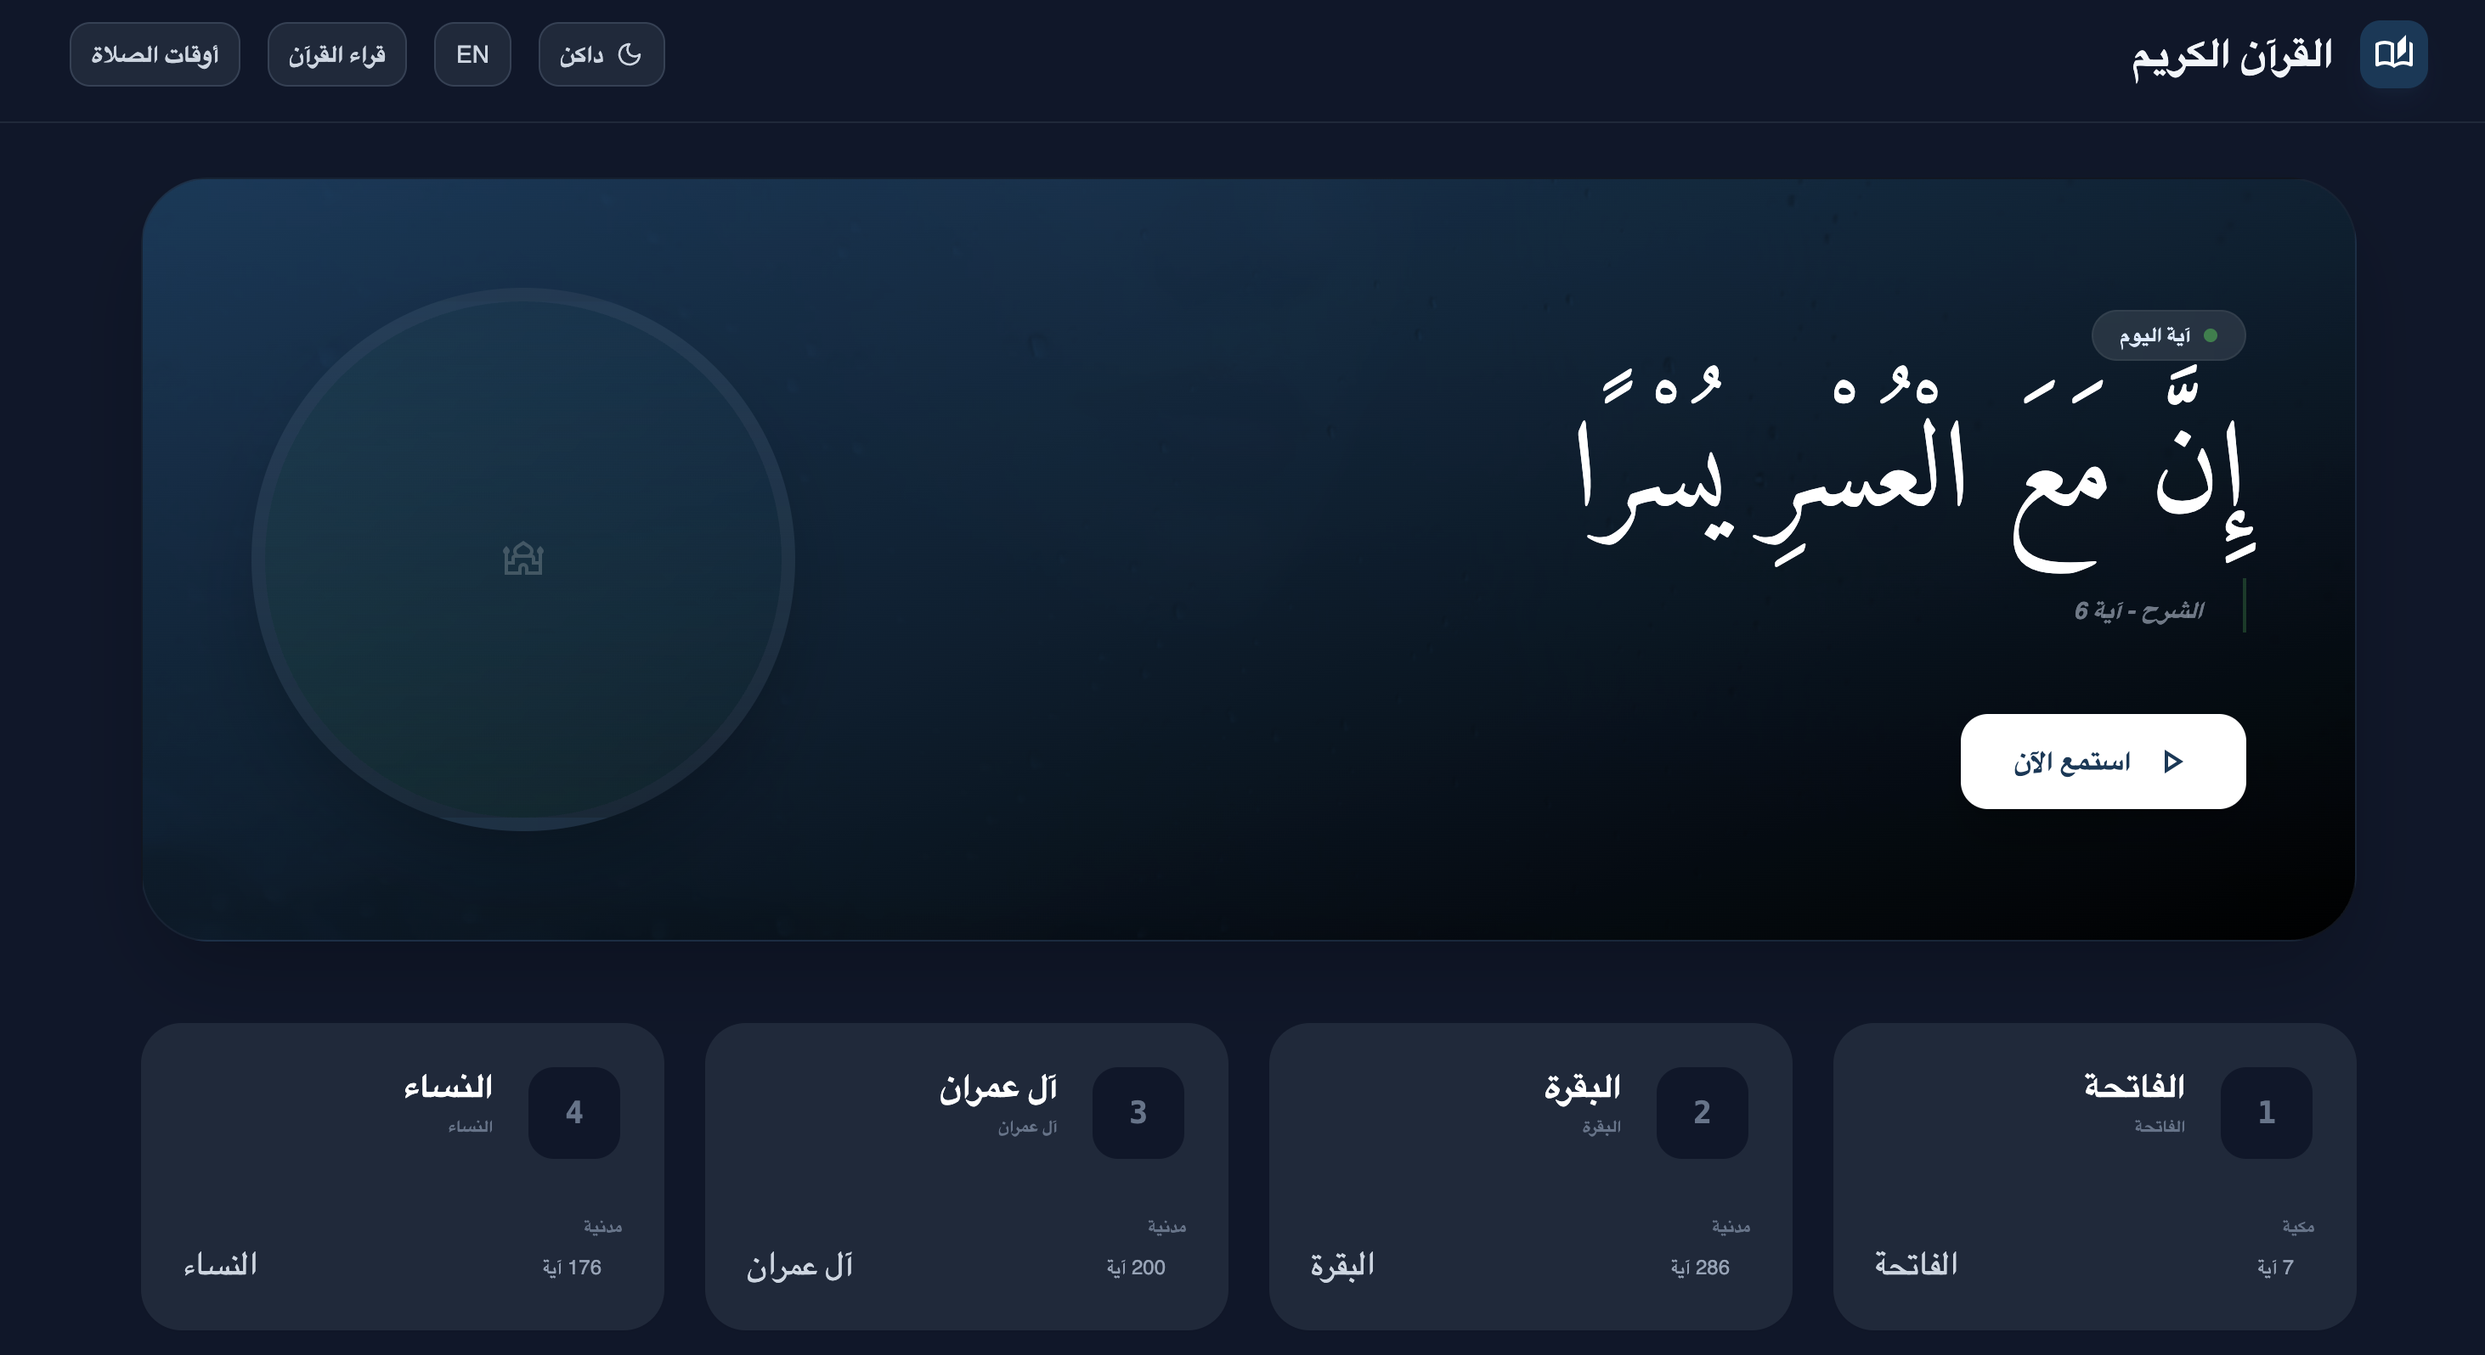
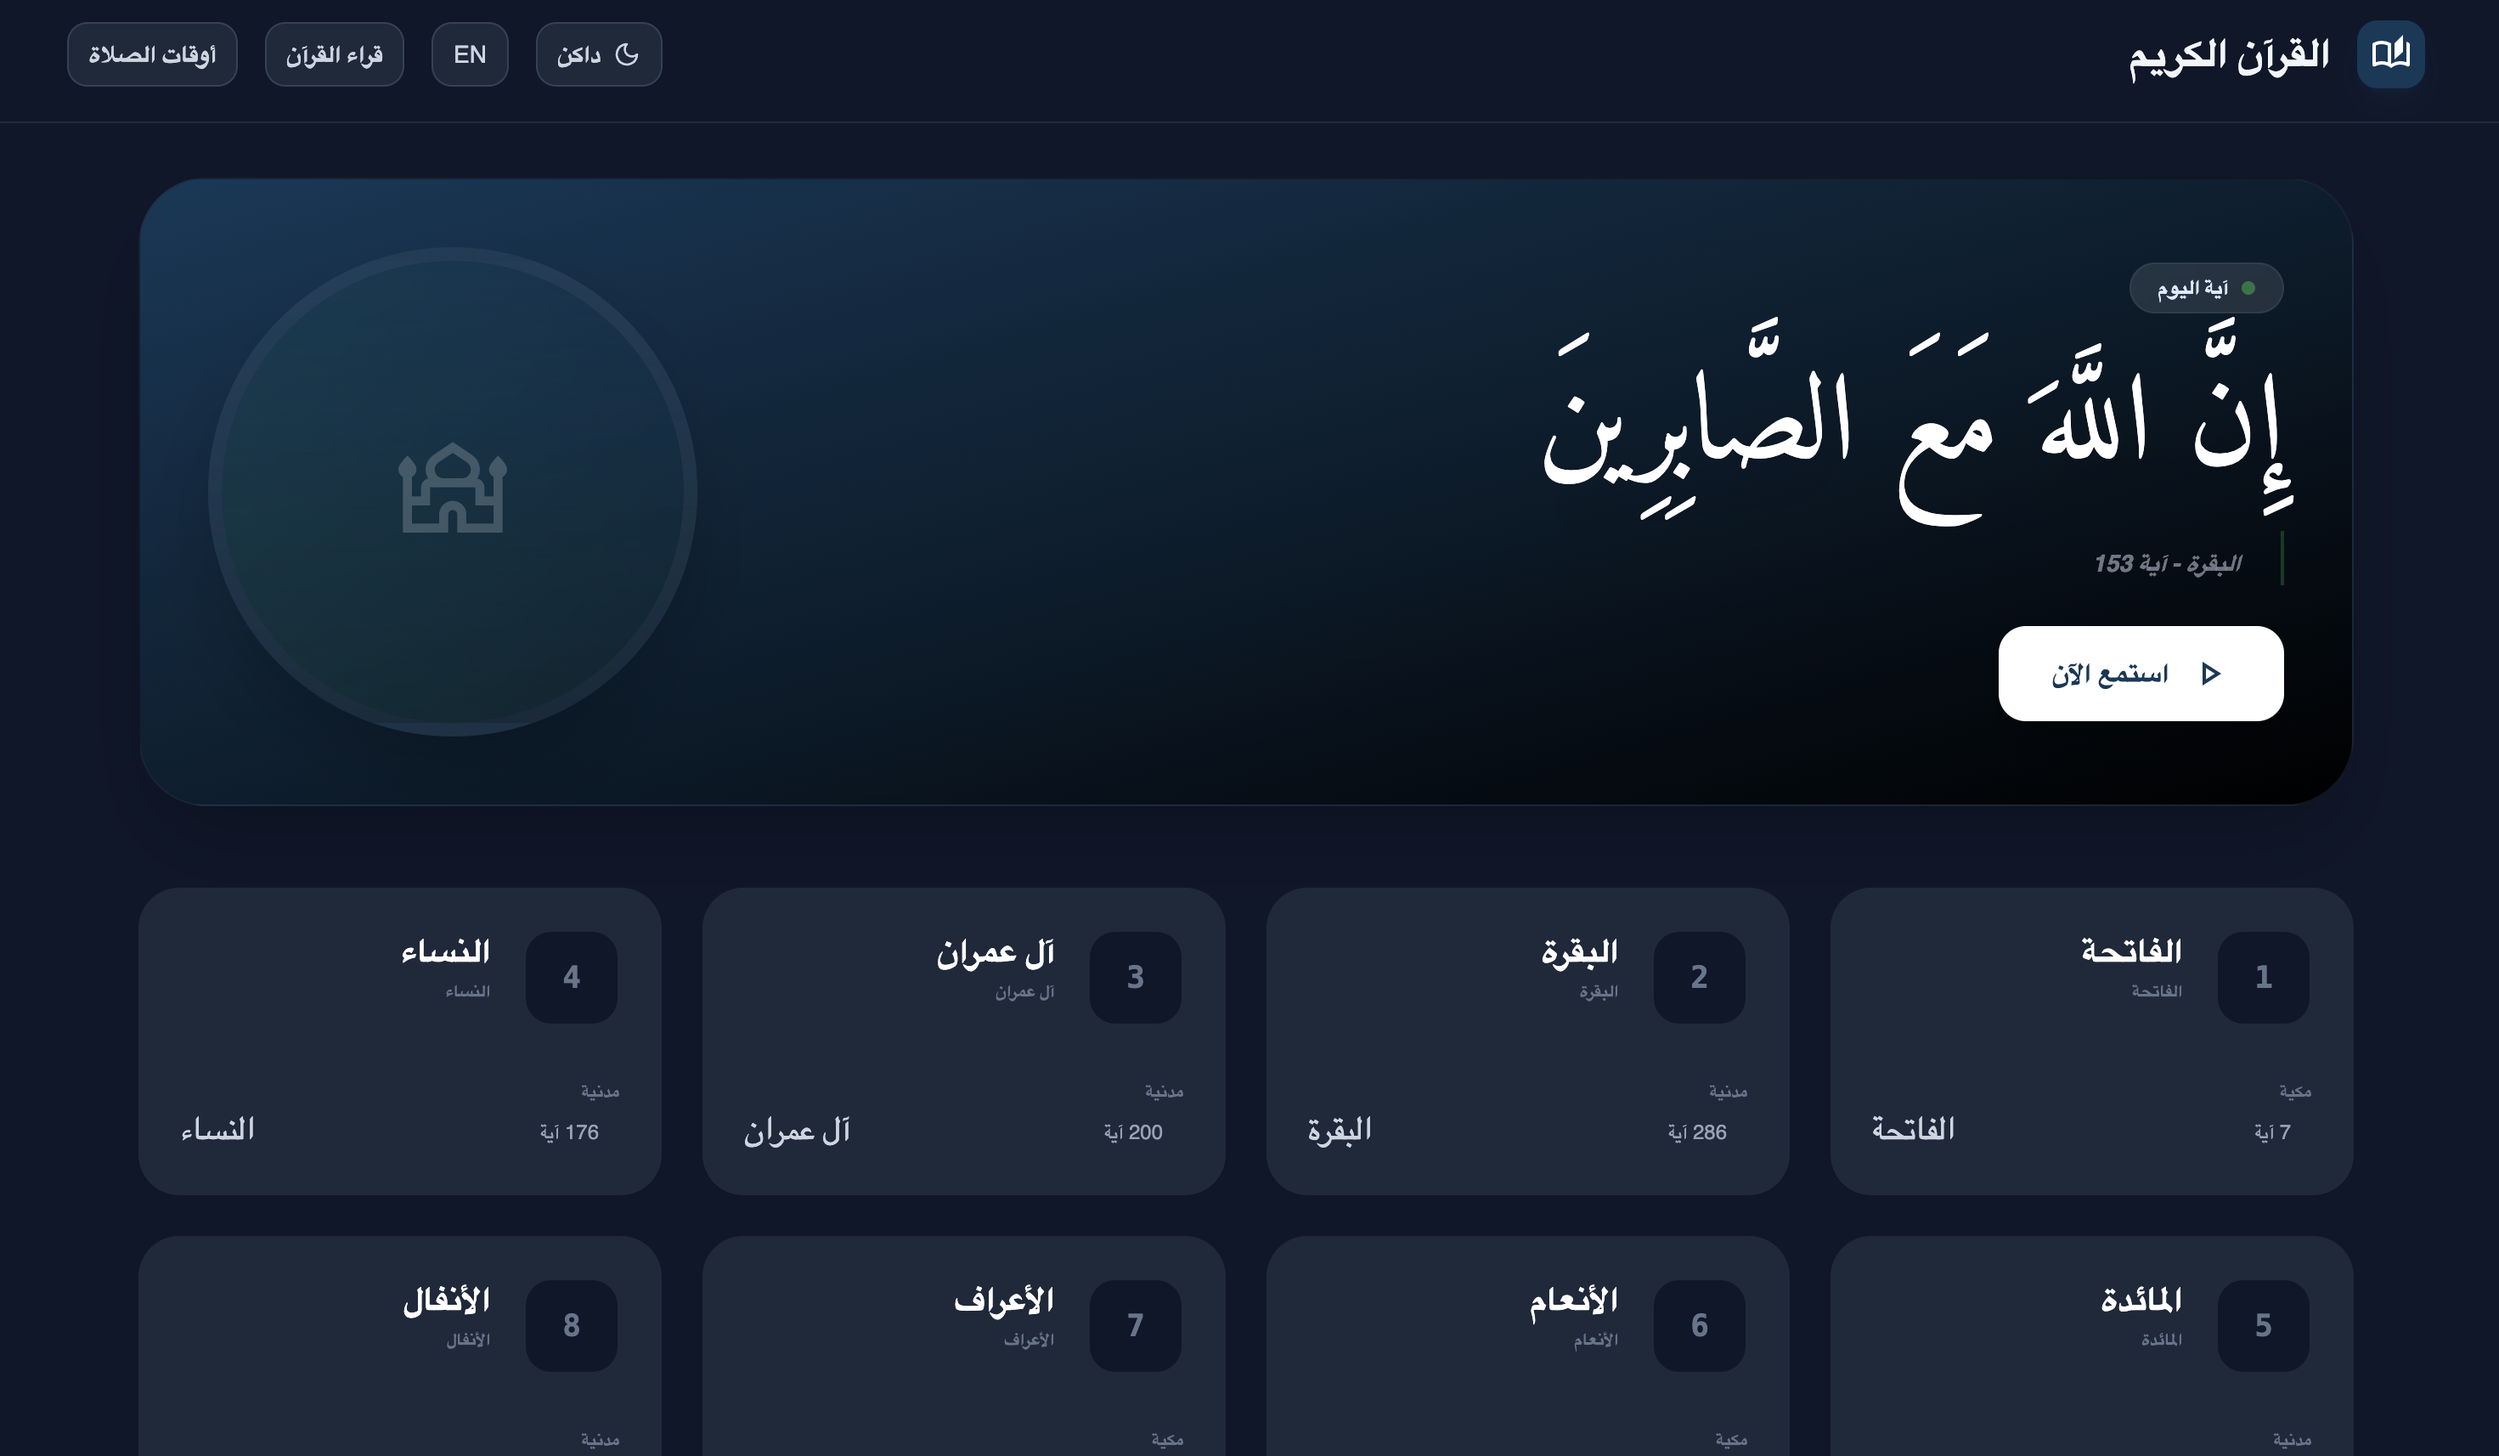
Update Hero and AudioPlayer components to remove hardcoded image URLs, adjust layout styles, and enhance responsiveness in HeroSection.

diff --git a/src/components/features/home/HeroSection.tsx b/src/components/features/home/HeroSection.tsx
@@ -25,15 +25,15 @@ export default function HeroSection({ }: IHeroSection) {
   };
   
   return (
-    <section className={`relative overflow-hidden rounded-[2.5rem] bg-gradient-to-br from-primary via-[#0a1e2f] to-slate-900 dark:to-black shadow-2xl border border-slate-200 dark:border-slate-800/50 group min-h-[400px] ${locale === 'ar' ? 'rtl' : 'ltr'}`}>
-      <div className="absolute inset-0 opacity-10 dark:opacity-25 mix-blend-overlay bg-cover bg-center" style={{ backgroundImage: "url('https://picsum.photos/seed/islamic-pattern/1600/600')" }}></div>
+    <section className={`relative overflow-hidden rounded-[2.5rem] bg-gradient-to-br from-primary via-[#0a1e2f] to-slate-900 dark:to-black shadow-2xl border border-slate-200 dark:border-slate-800/50 group min-h-[280px] ${locale === 'ar' ? 'rtl' : 'ltr'}`}>
+      <div className="absolute inset-0 opacity-10 dark:opacity-25 mix-blend-overlay bg-cover bg-center" ></div>
       
-      <div className="relative z-10 flex flex-col md:flex-row items-center justify-between p-10 md:p-16 gap-10">
+      <div className="relative z-10 flex flex-col md:flex-row items-center justify-between p-6 md:p-10 gap-6">
         <motion.div
           initial={{ opacity: 0, y: -20 }}
           animate={{ opacity: 1, y: 0 }}
           transition={{ duration: 0.5 }}
-          className="flex flex-col gap-8 max-w-3xl text-center md:text-left rtl:md:text-right"
+          className="flex flex-col gap-4 max-w-3xl text-center md:text-left rtl:md:text-right"
         >
           <motion.div
             initial={{ opacity: 0, scale: 0.95 }}
@@ -47,7 +47,7 @@ export default function HeroSection({ }: IHeroSection) {
             </span>
           </motion.div>
 
-          <div className="space-y-6">
+          <div className="space-y-6 mt-4">
             {ayah ? (
               <>
                 <motion.h1
@@ -94,7 +94,7 @@ export default function HeroSection({ }: IHeroSection) {
             initial={{ opacity: 0, scale: 0.95 }}
             animate={{ opacity: 1, scale: 1 }}
             transition={{ delay: 0.4, duration: 0.3 }}
-            className="flex flex-wrap gap-4 justify-center md:justify-start pt-4"
+            className="flex flex-wrap gap-4 justify-center md:justify-start pt-2"
           >
             <Link href="/reciters">
               <motion.button
@@ -115,8 +115,8 @@ export default function HeroSection({ }: IHeroSection) {
           transition={{ delay: 0.2, duration: 0.5 }}
           className="hidden lg:block relative shrink-0"
         >
-          <div className="w-64 h-64 lg:w-80 lg:h-80 rounded-full border-8 border-white/5 flex items-center justify-center bg-gradient-to-b from-primary/30 to-transparent backdrop-blur-xl shadow-2xl relative overflow-hidden group-hover:scale-105 transition-transform duration-700">
-            <span className="material-symbols-outlined text-8xl text-white/20 select-none">mosque</span>
+          <div className="w-72 h-72 lg:w-72 lg:h-72 rounded-full border-8 border-white/5 flex items-center justify-center bg-gradient-to-b from-primary/30 to-transparent backdrop-blur-xl shadow-2xl relative overflow-hidden group-hover:scale-105 transition-transform duration-700">
+            <span style={{ fontSize: '4rem' }} className="material-symbols-outlined text-white/20 select-none">mosque</span>
             <div className="absolute inset-0 bg-gradient-to-tr from-accent-green/10 to-transparent"></div>
           </div>
         </motion.div>

diff --git a/src/components/Hero.tsx b/src/components/Hero.tsx
@@ -24,7 +24,7 @@ export default function Hero({
       transition={{ duration: 0.5 }}
       className="text-center bg-gradient-to-br from-primary via-[#0a1e2f] to-slate-900 dark:to-black min-h-[11rem] flex items-center justify-center p-6 shadow-lg relative overflow-hidden"
     >
-      <div className="absolute inset-0 opacity-10 dark:opacity-25 mix-blend-overlay bg-cover bg-center" style={{ backgroundImage: "url('https://picsum.photos/seed/islamic-pattern/1600/600')" }}></div>
+      <div className="absolute inset-0 opacity-10 dark:opacity-25 mix-blend-overlay bg-cover bg-center"></div>
 
       <div className="flex flex-col gap-6 w-full max-w-3xl mx-auto relative z-10">
         <motion.h2

diff --git a/src/components/AudioPlayer.tsx b/src/components/AudioPlayer.tsx
@@ -60,7 +60,7 @@ export default function AudioPlayer({
         album: 'Quran Recitation',
         artwork: [
           {
-            src: `https://picsum.photos/seed/${surah.id}/96/96`,
+            src: ``,
             sizes: '96x96',
             type: 'image/jpeg',
           },
